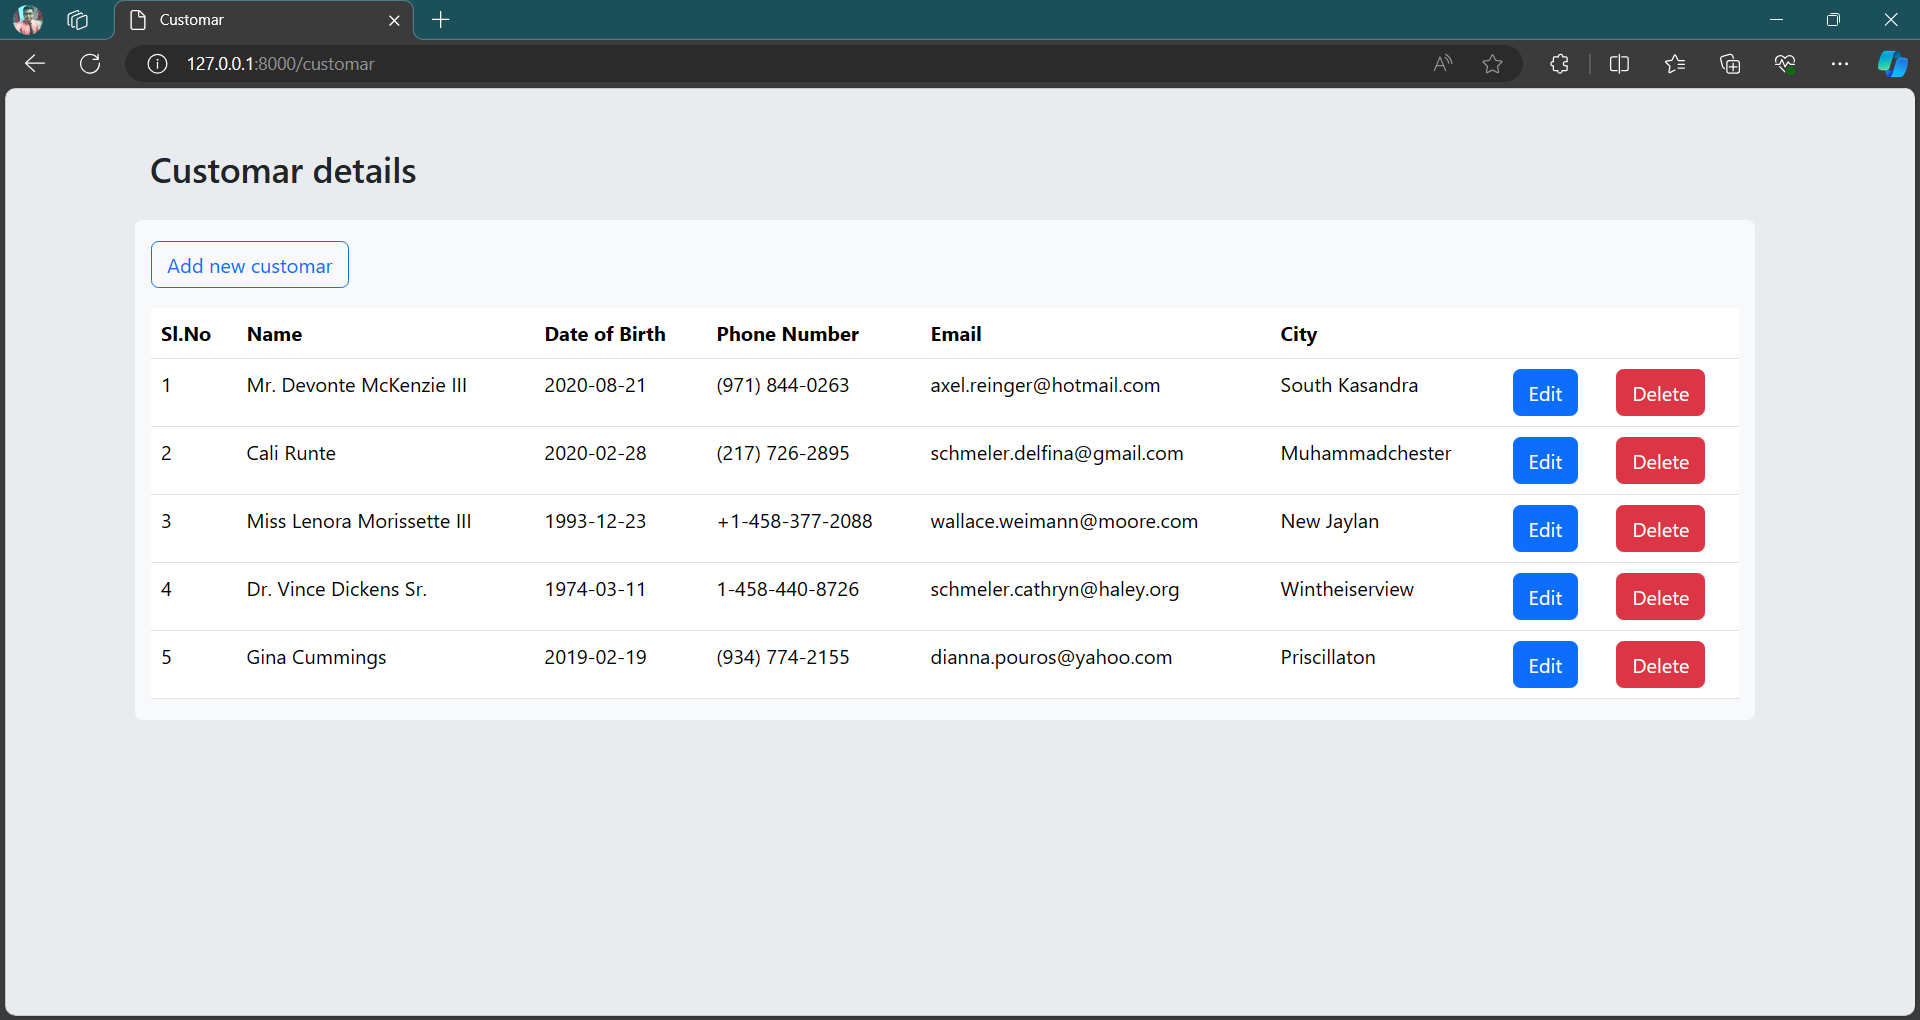
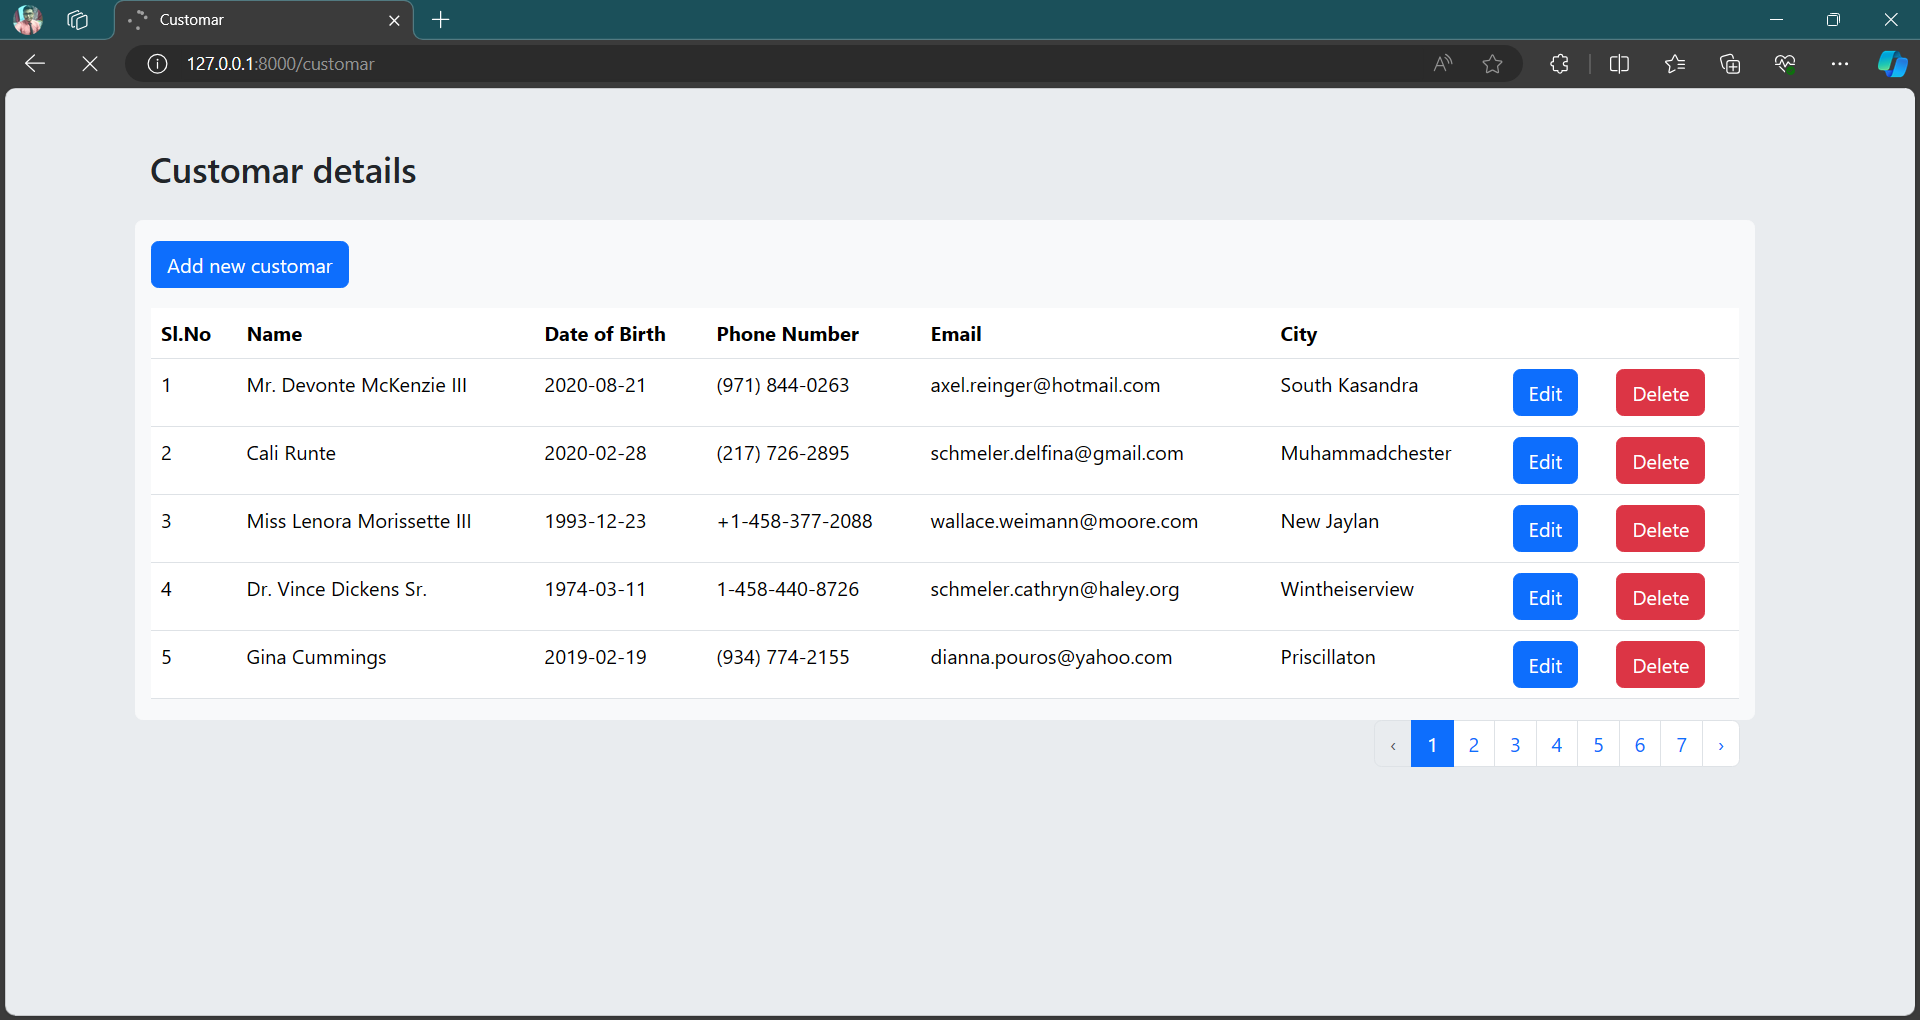
add pagination

Changed region(s): [[0.0625, 0.2127, 0.1875, 0.3039], [0.7188, 0.699, 0.7812, 0.7598]]

diff --git a/Code/app/Providers/AppServiceProvider.php b/Code/app/Providers/AppServiceProvider.php
@@ -3,6 +3,7 @@
 namespace App\Providers;
 
 use Illuminate\Support\ServiceProvider;
+use Illuminate\Pagination\Paginator;
 
 class AppServiceProvider extends ServiceProvider
 {
@@ -23,6 +24,6 @@ class AppServiceProvider extends ServiceProvider
      */
     public function boot()
     {
-        //
+        Paginator::useBootstrap();
     }
 }

diff --git a/Code/app/Http/Controllers/customarController.php b/Code/app/Http/Controllers/customarController.php
@@ -15,7 +15,7 @@ class customarController extends Controller
      */
     public function index()
     {
-        $customar=DB::table('customars')->get();
+        $customar=DB::table('customars')->paginate(5);
         return view('customarList',['data'=>$customar]);
     }
 

diff --git a/Code/resources/views/customarList.blade.php b/Code/resources/views/customarList.blade.php
@@ -49,6 +49,9 @@
                     @endforeach
 			</table>
 		</div>
+		<div class="pagination  justify-content-end">
+			{{ $data->links('pagination::bootstrap-4'); }}
+		</div>
 	</div>
 </div>
 
